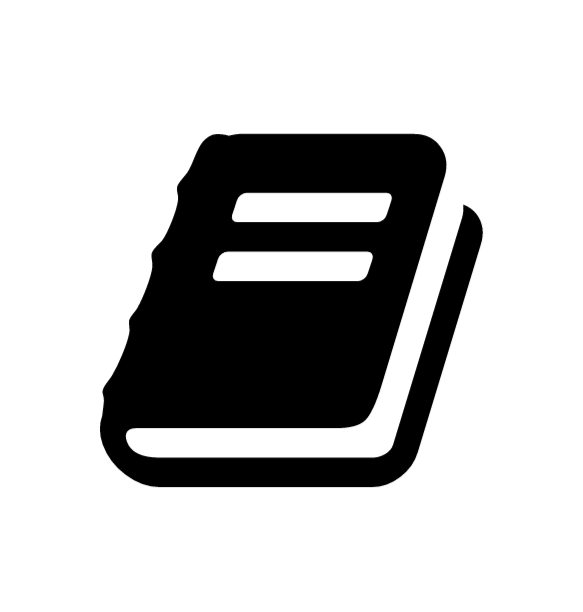
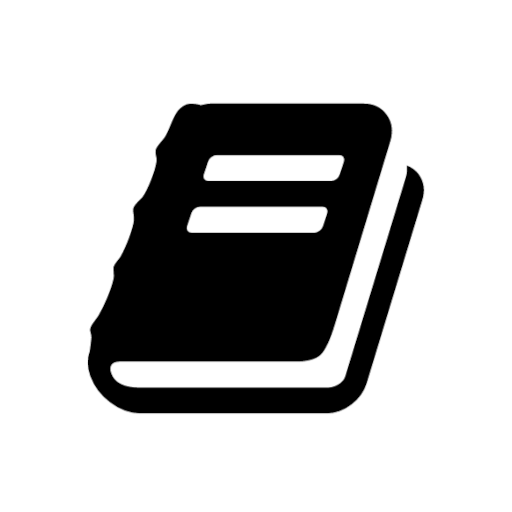
better sw

diff --git a/index.html b/index.html
@@ -1,14 +1,16 @@
 <html>
     <head>
-        <title>Journal</title>
+        <title>My Journal</title>
         <meta name="viewport" content="width=device-width, initial-scale=1.0">
         <meta charset="utf-8">
         <link rel="manifest" href="/manifest.webmanifest">
         <link rel="stylesheet" href="style/style.css">
         <script>
-            if('serviceWorker' in navigator) {
-                navigator.serviceWorker.register('script/sw.js');
-            };
+            window.addEventListener("load", () => {
+                if('serviceWorker' in navigator) {
+                    navigator.serviceWorker.register('script/sw.js');
+                };
+            });
         </script>
     </head>
     <body>
@@ -23,7 +25,7 @@
                 <a href="#journal-yesterday">yesterday</a>
                 <a id ="older-button" href="#older" style="display:none">older</a>
                 <a href="#settings">settings</a>
-                <img src="icon.png" style="width: 200px;position: absolute;bottom:0;">
+                <img src="icon.png" style="width: 200px;position: absolute;bottom:0; border-radius: 30%;">
             </div>
             <textarea id="today"  style="display:none">
 

diff --git a/script/app.js b/script/app.js
@@ -108,7 +108,7 @@ function importFromJSON(jsonImport){
 }
 
 function loadScreen (hash){
-    if(hash == "#menu"){
+    if(hash == "#menu" || hash == "#" || hash == ""){
         document.getElementById("menu").style.display = 'flex';
         document.getElementById("today").style.display = 'none';
         document.getElementById("yesterday").style.display = 'none';

diff --git a/style/style.css b/style/style.css
@@ -68,3 +68,13 @@ textarea.mini {
     padding-top : 1em;
     white-space: pre-line;
 }
+
+.dark, .dark textarea{
+    background-color: black;
+    color: white;
+}
+
+.dark #menu a, .dark #settingsBar a, .dark #topbar a, .dark .button{
+    background-color: white;
+    color: black;
+}
